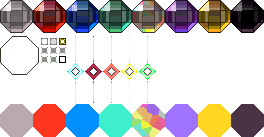
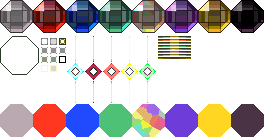
Fix some bug of MissionIcon, MissionDetail.

diff --git a/Sources/Everglow.Function/Mechanics/Mission/UI/UIElements/UIMissionItem.cs b/Sources/Everglow.Function/Mechanics/Mission/UI/UIElements/UIMissionItem.cs
@@ -18,6 +18,9 @@ public class UIMissionItem : UIBlock
 
 	private float oldScale;
 
+	private bool mouseOver = false;
+	private bool selected = false;
+
 	public PlayerMissionBase Mission { get; private set; }
 
 	public UIMissionItem(PlayerMissionBase missionBase)
@@ -105,10 +108,7 @@ public class UIMissionItem : UIBlock
 	/// <param name="e"></param>
 	private void OnMouseOver(BaseElement e)
 	{
-		if (Instance.SelectedItem != this)
-		{
-			PanelColor = Color.Gray;
-		}
+		mouseOver = true;
 	}
 
 	/// <summary>
@@ -118,10 +118,7 @@ public class UIMissionItem : UIBlock
 	/// <param name="e"></param>
 	private void OnMouseLeave(BaseElement e)
 	{
-		if (Instance.SelectedItem != this)
-		{
-			OnUnselected();
-		}
+		mouseOver = false;
 	}
 
 	/// <summary>
@@ -130,7 +127,7 @@ public class UIMissionItem : UIBlock
 	/// </summary>
 	public void OnSelected()
 	{
-		PanelColor = Color.White;
+		selected = true;
 	}
 
 	/// <summary>
@@ -139,7 +136,7 @@ public class UIMissionItem : UIBlock
 	/// </summary>
 	public void OnUnselected()
 	{
-		PanelColor = Color.Transparent;
+		selected = false;
 	}
 
 	protected override void DrawChildren(SpriteBatch sb)
@@ -155,27 +152,64 @@ public class UIMissionItem : UIBlock
 		{
 			int index = uiml.MissionItems.IndexOf(this);
 			Vector2 coord = new Vector2(HitBox.X, index * 93 + ParentElement.ParentElement.HitBox.Y) - ParentElement.ParentElement.ParentElement.ParentElement.HitBox.TopLeft();
-			Main.NewText(coord);
 			var panel_texRectangle = new Rectangle((int)coord.X, (int)coord.Y, HitBox.Width, HitBox.Height);
 			Texture2D background = ModAsset.Marble_Texture.Value;
 			sb.Draw(background, HitBox, panel_texRectangle, Color.White);
 		}
 		Texture2D tex = ModAsset.MissionStackPanel.Value;
 		var drawBox = HitBox;
-		Draw9Piece_MissionStackPanel7x7(sb, drawBox, 41, 38);
+		int outer_coord_x = 41;
+		int outer_coord_y = 38;
+		if (mouseOver)
+		{
+			outer_coord_x = 41;
+			outer_coord_y = 65;
+			if (selected)
+			{
+				outer_coord_x = 50;
+				outer_coord_y = 65;
+			}
+		}
+		else if (selected)
+		{
+			outer_coord_x = 50;
+			outer_coord_y = 38;
+		}
+
+		// out bound
+		Draw9Piece_MissionStackPanel7x7(sb, drawBox, outer_coord_x, outer_coord_y);
+
 		drawBox.X += 5;
 		drawBox.Y += 4;
 		drawBox.Width -= 10;
 		drawBox.Height -= 8;
+
+		// golden framework
 		Draw9Piece_MissionStackPanel7x7(sb, drawBox, 59, 38);
+
 		drawBox.X += 68;
 		drawBox.Y += 10;
 		drawBox.Width -= 79;
 		drawBox.Height -= 20;
+
+		// content area
 		Draw9Piece_MissionStackPanel7x7(sb, drawBox, 41, 47);
 
 		var gem_frame = ColorDefinition.GetGemFrame(Mission.Type);
-		sb.Draw(tex, HitBox.Left() + new Vector2(40, 0), gem_frame, Color.White, 0, gem_frame.Size() * 0.5f, 1f, SpriteEffects.None, 0);
+		if (selected)
+		{
+			gem_frame.Y += 104;
+			sb.Draw(tex, HitBox.Left() + new Vector2(40, 0), gem_frame, Color.White, 0, gem_frame.Size() * 0.5f, 1f, SpriteEffects.None, 0);
+			gem_frame.Y -= 104;
+			sb.Draw(tex, HitBox.Left() + new Vector2(40, 0), gem_frame, new Color(1f, 1f, 1f, 0.5f), 0, gem_frame.Size() * 0.5f, 1f, SpriteEffects.None, 0);
+		}
+		else
+		{
+			sb.Draw(tex, HitBox.Left() + new Vector2(40, 0), gem_frame, Color.White, 0, gem_frame.Size() * 0.5f, 1f, SpriteEffects.None, 0);
+		}
+		var reflectionFrame = new Rectangle(158, 36 + gem_frame.X / 11, 33, 2);
+		sb.Draw(tex, HitBox.TopLeft() + new Vector2(40, 5), reflectionFrame, Color.White, 0, reflectionFrame.Size() * 0.5f, 1f, SpriteEffects.None, 0);
+		sb.Draw(tex, HitBox.TopLeft() + new Vector2(40, 88), reflectionFrame, Color.White, MathHelper.Pi, reflectionFrame.Size() * 0.5f, 1f, SpriteEffects.None, 0);
 		gem_frame = new Rectangle(0, 36, 39, 39);
 		sb.Draw(tex, HitBox.Left() + new Vector2(40, 0), gem_frame, Color.White, 0, gem_frame.Size() * 0.5f, 1f, SpriteEffects.None, 0);
 	}

diff --git a/Sources/Everglow.Function/Mechanics/Mission/UI/UIElements/UIMissionList.cs b/Sources/Everglow.Function/Mechanics/Mission/UI/UIElements/UIMissionList.cs
@@ -1,7 +1,6 @@
 using Everglow.Commons.Mechanics.Mission.Core;
 using Everglow.Commons.Mechanics.Mission.PlayerSide;
 using Everglow.Commons.Mechanics.Mission.Presentation;
-using Everglow.Commons.Mechanics.Mission.UI;
 using Everglow.Commons.UI.UIElements;
 
 namespace Everglow.Commons.Mechanics.Mission.UI.UIElements;
@@ -34,8 +33,9 @@ public class UIMissionList : UIBlock
 	{
 		base.Calculation();
 		_missionScrollbar.Info.Left.SetValue(PositionStyle.Full - _missionScrollbar.Info.Width - (64f, 0f));
+		_missionScrollbar.Info.Top.SetValue(8, 0);
 		_missionScrollbar.Info.Width.SetValue(33);
-		_missionScrollbar.Info.Height.SetValue(PositionStyle.Full);
+		_missionScrollbar.Info.Height.SetValue(PositionStyle.Full - (8, 0));
 	}
 
 	public override void Update(GameTime gt)
@@ -56,6 +56,18 @@ public class UIMissionList : UIBlock
 				top += mI.Info.Height;
 			}
 		}
+	}
+
+	public override void Draw(SpriteBatch sb)
+	{
+		Texture2D background = Commons.ModAsset.Drop.Value;
+		var newHitBox = HitBox;
+		newHitBox.Y += 8;
+		newHitBox.Height -= 8;
+		newHitBox.X += 24;
+		newHitBox.Width -= 120;
+		sb.Draw(background, newHitBox, new Rectangle(0, 0, 1, 1), Color.White * 0.5f);
+		base.Draw(sb);
 	}
 
 	/// <summary>

diff --git a/Sources/Everglow.Function/Mechanics/Mission/UI/UIElements/MissionDetail/UIMissionDetail.cs b/Sources/Everglow.Function/Mechanics/Mission/UI/UIElements/MissionDetail/UIMissionDetail.cs
@@ -181,13 +181,14 @@ public class UIMissionDetail : UIBlock
 	public override void Calculation()
 	{
 		base.Calculation();
+		Info.HiddenOverflow = true;
 
 		float detailPanelWidth = (Info.Width.Pixel - 120) / 2f;
 		float detailPanelDistance = 40;
 
-		_icon.Info.Width.SetValue(420 * Scale);
+		_icon.Info.Width.SetValue(480 * Scale);
 		_icon.Info.Height.SetValue(256 * Scale);
-		_icon.Info.Left.SetValue(detailPanelDistance + detailPanelWidth / 2f - 210);
+		_icon.Info.Left.SetValue(detailPanelDistance + detailPanelWidth / 2f - 240);
 		_icon.Info.Top.SetValue(93 * Scale);
 
 		_description.Info.Width.SetValue(detailPanelWidth * Scale);
@@ -439,6 +440,19 @@ public class UIMissionDetail : UIBlock
 		else
 		{
 			_objectiveChangeText.Text = "[TextDrawer,Text='',Color='{color}']";
+		}
+	}
+
+	public override void Draw(SpriteBatch sb)
+	{
+		if (SelectedItem is null)
+		{
+			Texture2D tex = ModAsset.MissionIconBoard.Value;
+			sb.Draw(tex, Info.TotalHitBox, new Rectangle(16, 16, 16, 16), Color.White);
+		}
+		else
+		{
+			base.Draw(sb);
 		}
 	}
 

diff --git a/Sources/Everglow.Function/Mechanics/Mission/UI/UIElements/UIMissionListScrollbar.cs b/Sources/Everglow.Function/Mechanics/Mission/UI/UIElements/UIMissionListScrollbar.cs
@@ -62,7 +62,7 @@ namespace Everglow.Commons.Mechanics.Mission.UI.UIElements
 		public override void Calculation()
 		{
 			base.Calculation();
-			_inner.Info.Top.SetValue(WheelValue * (ParentElement.HitBox.Height - 65), 0);
+			_inner.Info.Top.SetValue(WheelValue * (HitBox.Height - 65), 0);
 			_inner.Info.Left.SetValue(0, 0);
 			_inner.Info.Width.SetValue(33, 0);
 			_inner.Info.Height.SetValue(65, 0);
@@ -84,10 +84,10 @@ namespace Everglow.Commons.Mechanics.Mission.UI.UIElements
 			int pos_coord_y = HitBox.Y - ParentElement.ParentElement.HitBox.Y;
 			frame = new Rectangle(pos_coord_x, pos_coord_y, 33, 65);
 			sb.Draw(tex, _inner.Info.HitBox, frame, Color.White);
-			if (MouseOver)
+			if (MouseOver || ContainsPoint(Main.MouseScreen.ToPoint()))
 			{
 				Texture2D highlight = ModAsset.MissionListThumb.Value;
-				frame = new Rectangle(33, 0, 33, 65);
+				frame = new Rectangle(37, 0, 37, 69);
 				sb.Draw(highlight, _inner.Info.HitBox.Center(), frame, Color.White, 0, frame.Size() * 0.5f, 1f, SpriteEffects.None, 0);
 			}
 		}

diff --git a/Sources/Everglow.Function/Mechanics/Mission/UI/UIElements/MissionDetail/UIMissionIcon.cs b/Sources/Everglow.Function/Mechanics/Mission/UI/UIElements/MissionDetail/UIMissionIcon.cs
@@ -79,6 +79,7 @@ public class UIMissionIcon : UIBlock
 		var prevIcon = new UIImage(ModAsset.MissionIconArrow.Value, Color.White);
 		prevBtn.Register(prevIcon);
 		prevIcon.SourceRectangle = new Rectangle(0, 0, 35, 25);
+		prevIcon.Color = Color.Gray;
 		prevIcon.Info.SetToCenter();
 
 		nextBtn = new UIBlock();
@@ -185,6 +186,7 @@ public class UIMissionIcon : UIBlock
 
 		carousel.Info.Width.SetFull();
 		carousel.Info.Height.SetFull();
+		carousel.Info.SetToCenter();
 
 		int arrow_offset_H = 180;
 
